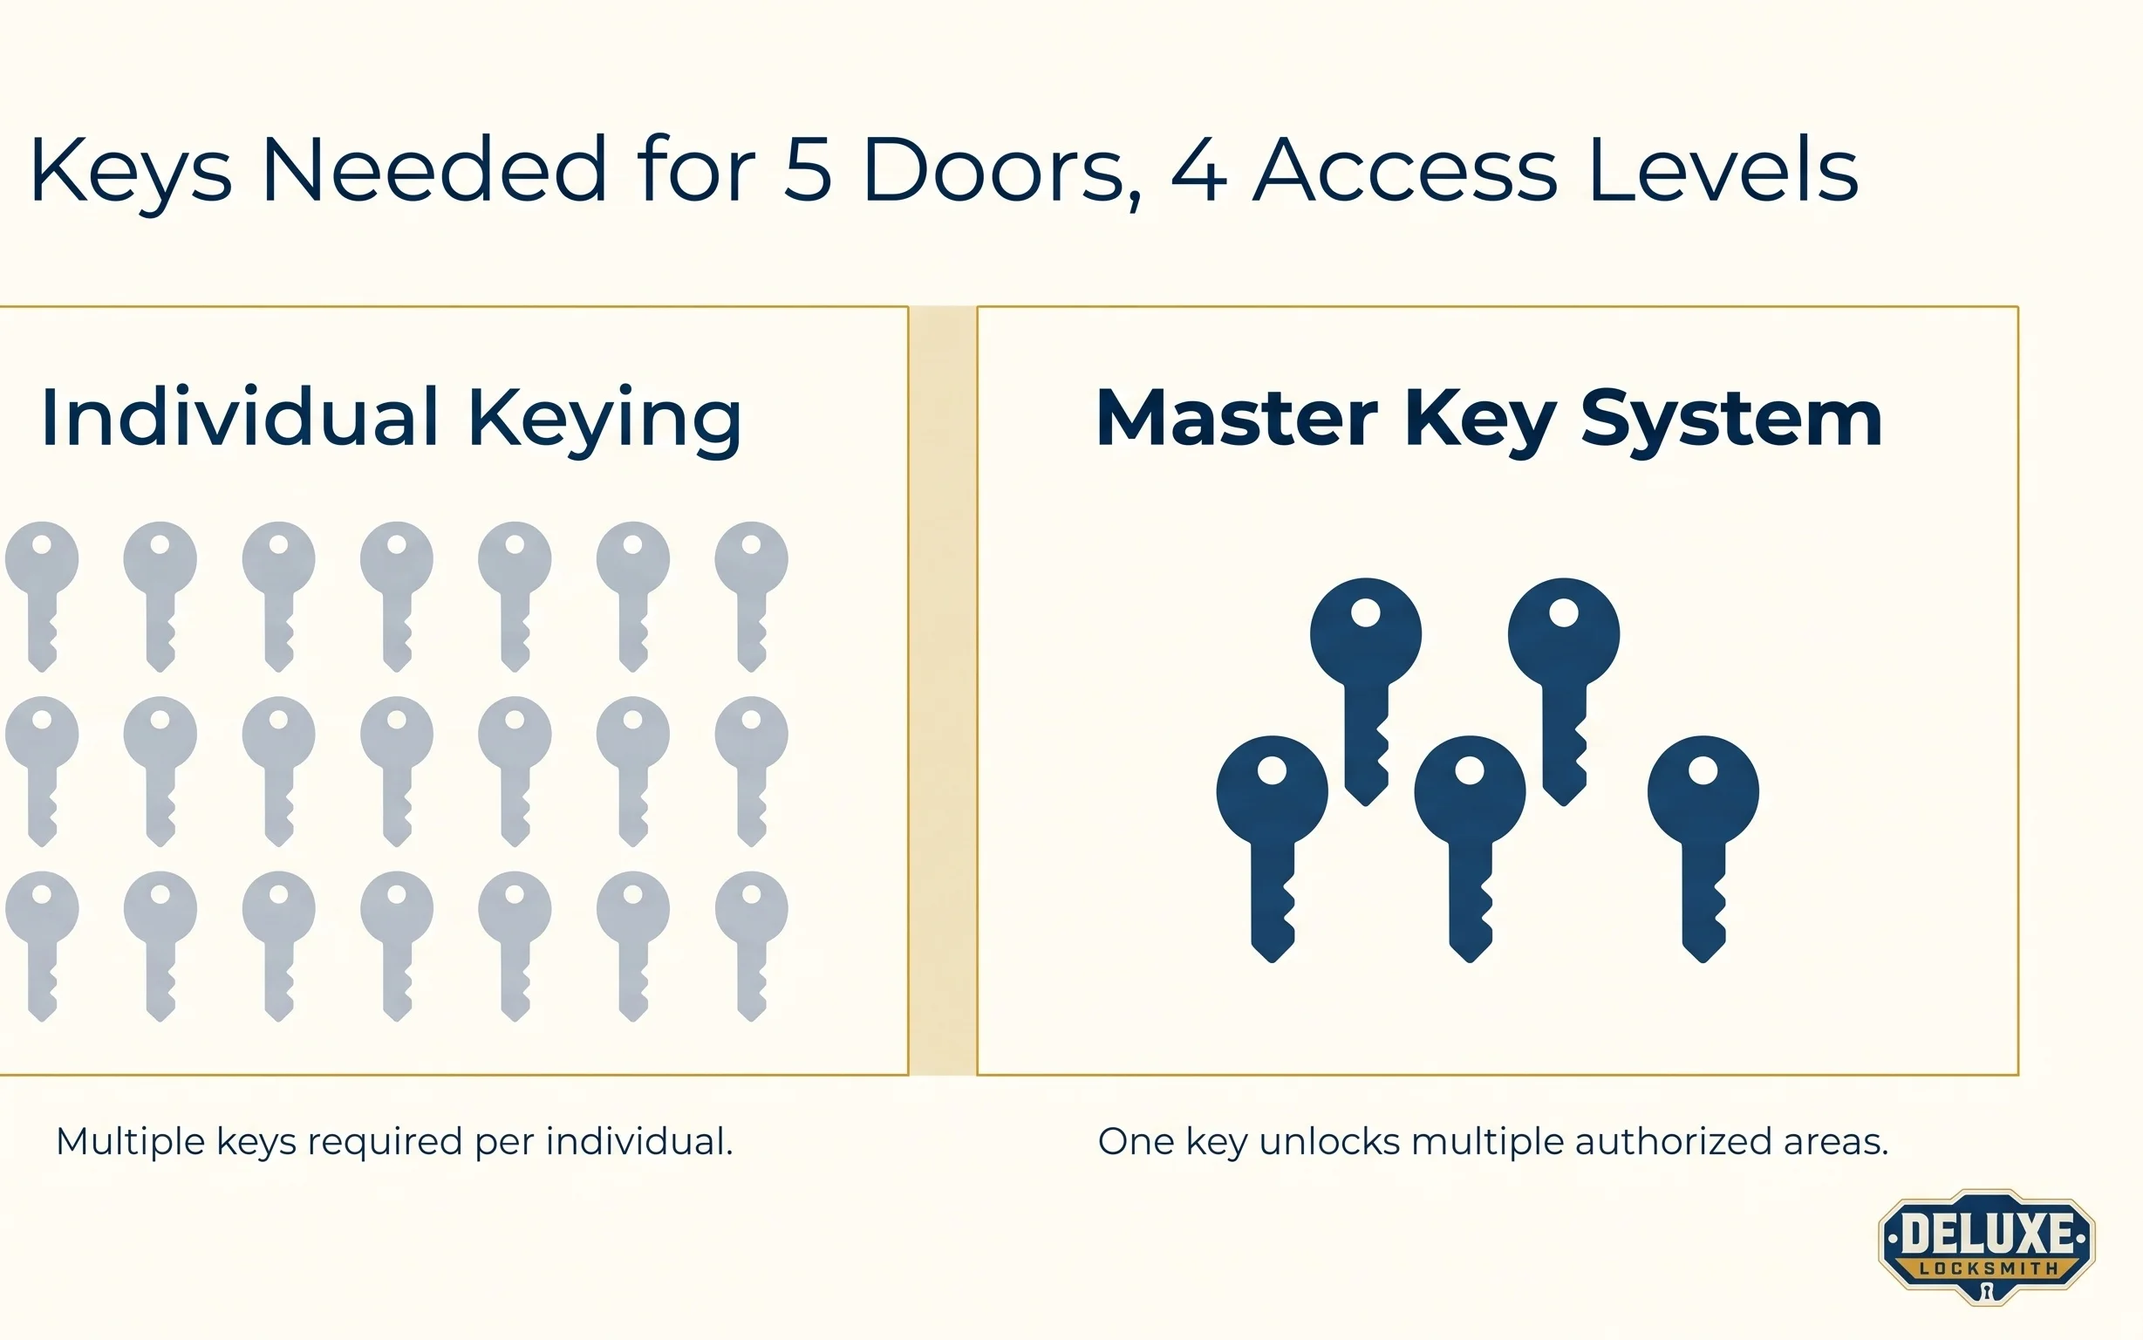
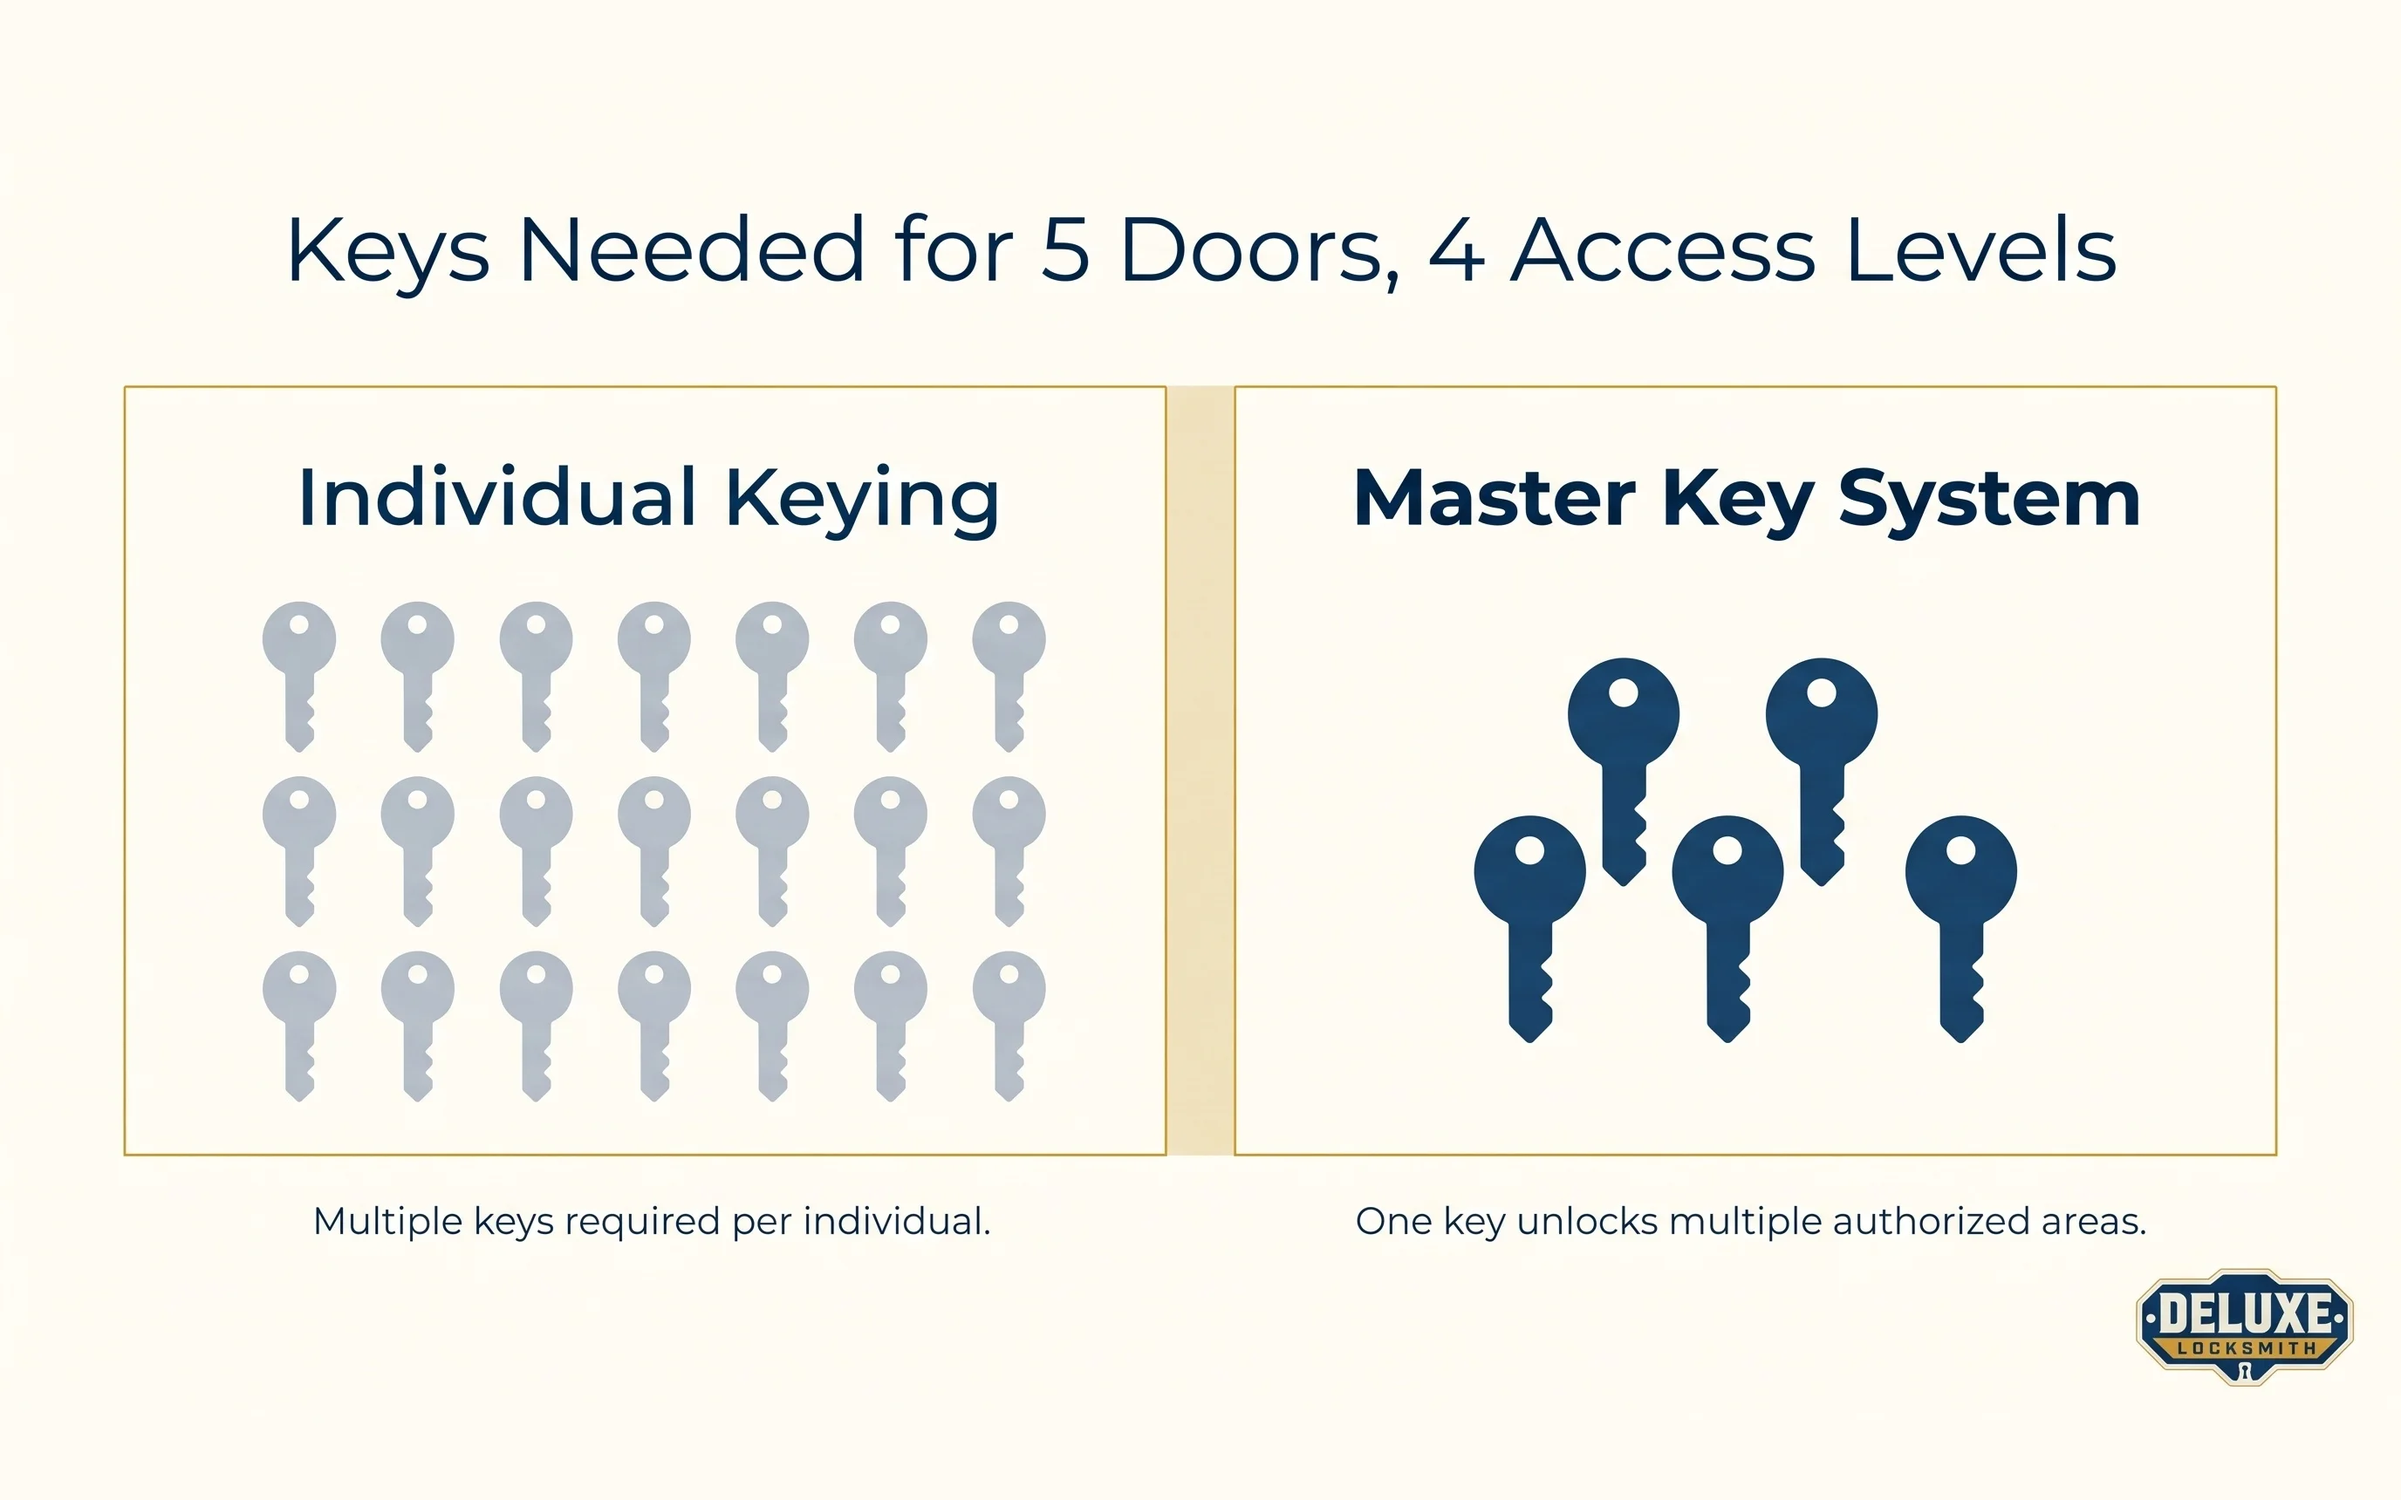
Pad instead of crop to fix left-side content loss
Previous commit (0e363ca) cropped 295px entirely off the left edge
to hit the site's 8:5 aspect ratio, which cut into the left panel's
key icons. Switched to padding the image with matching background
color (92px top+bottom) instead of cropping - nothing is removed,
image just grows from 2752x1536 to 2752x1720.

Changed region(s): [[0.0, 0.2188, 0.9898, 0.9688], [0.0, 0.0938, 0.897, 0.1875], [0.5568, 0.4062, 0.8661, 0.7188]]

diff --git a/blog/master-key-systems-what-multi-door-businesses-actually-need/index.html b/blog/master-key-systems-what-multi-door-businesses-actually-need/index.html
@@ -108,14 +108,14 @@
           <p>U.S. voluntary employee turnover averaged 13% in 2025, down from 24.7% in 2022 (<em>Mercer&#39;s 2025 US Turnover Survey</em>, 2025). Still meaningful for any business with more than a few employees. Every departure without a clear rekey policy leaves a key in circulation that nobody is tracking anymore.</p>
 
           <figure class="photo-figure">
-            <img src="/assets/blog/master-key-systems-what-multi-door-businesses-actually-need/inline-key-handoff.webp" alt="Deluxe Locksmith technician handing a labeled set of commercial keys to a business owner, with a written key schedule visible on a clipboard nearby" width="2457" height="1536" loading="lazy">
+            <img src="/assets/blog/master-key-systems-what-multi-door-businesses-actually-need/inline-key-handoff.webp" alt="Deluxe Locksmith technician handing a labeled set of commercial keys to a business owner, with a written key schedule visible on a clipboard nearby" width="2752" height="1720" loading="lazy">
           </figure>
 
           <p>We see this most often with businesses that have been in the same location for years. Nobody remembers exactly how many keys were cut. Nobody&#39;s sure who still has one, or whether a contractor from three years ago ever returned theirs. By the time someone asks the question, the honest answer is usually &quot;we don&#39;t know.&quot; That&#39;s precisely the situation documented key control prevents.</p>
           <p>A properly set up system comes with a schedule: a written record of which key level opens which doors, and who was issued one. That record is what makes it possible to answer &quot;who can get into the server room&quot; without guessing.</p>
 
           <figure class="photo-figure">
-            <img src="/assets/blog/master-key-systems-what-multi-door-businesses-actually-need/keys-comparison-infographic.webp" alt="Infographic comparing individual keying, shown as 20 separate keys, against a master key system, shown as 6 keys, for 5 doors and 4 access levels" width="2457" height="1536" loading="lazy">
+            <img src="/assets/blog/master-key-systems-what-multi-door-businesses-actually-need/keys-comparison-infographic.webp" alt="Infographic comparing individual keying, shown as 20 separate keys, against a master key system, shown as 6 keys, for 5 doors and 4 access levels" width="2752" height="1720" loading="lazy">
             <figcaption>Illustrative comparison based on standard master-keying structure. Not a specific client&#39;s building.</figcaption>
           </figure>
 
